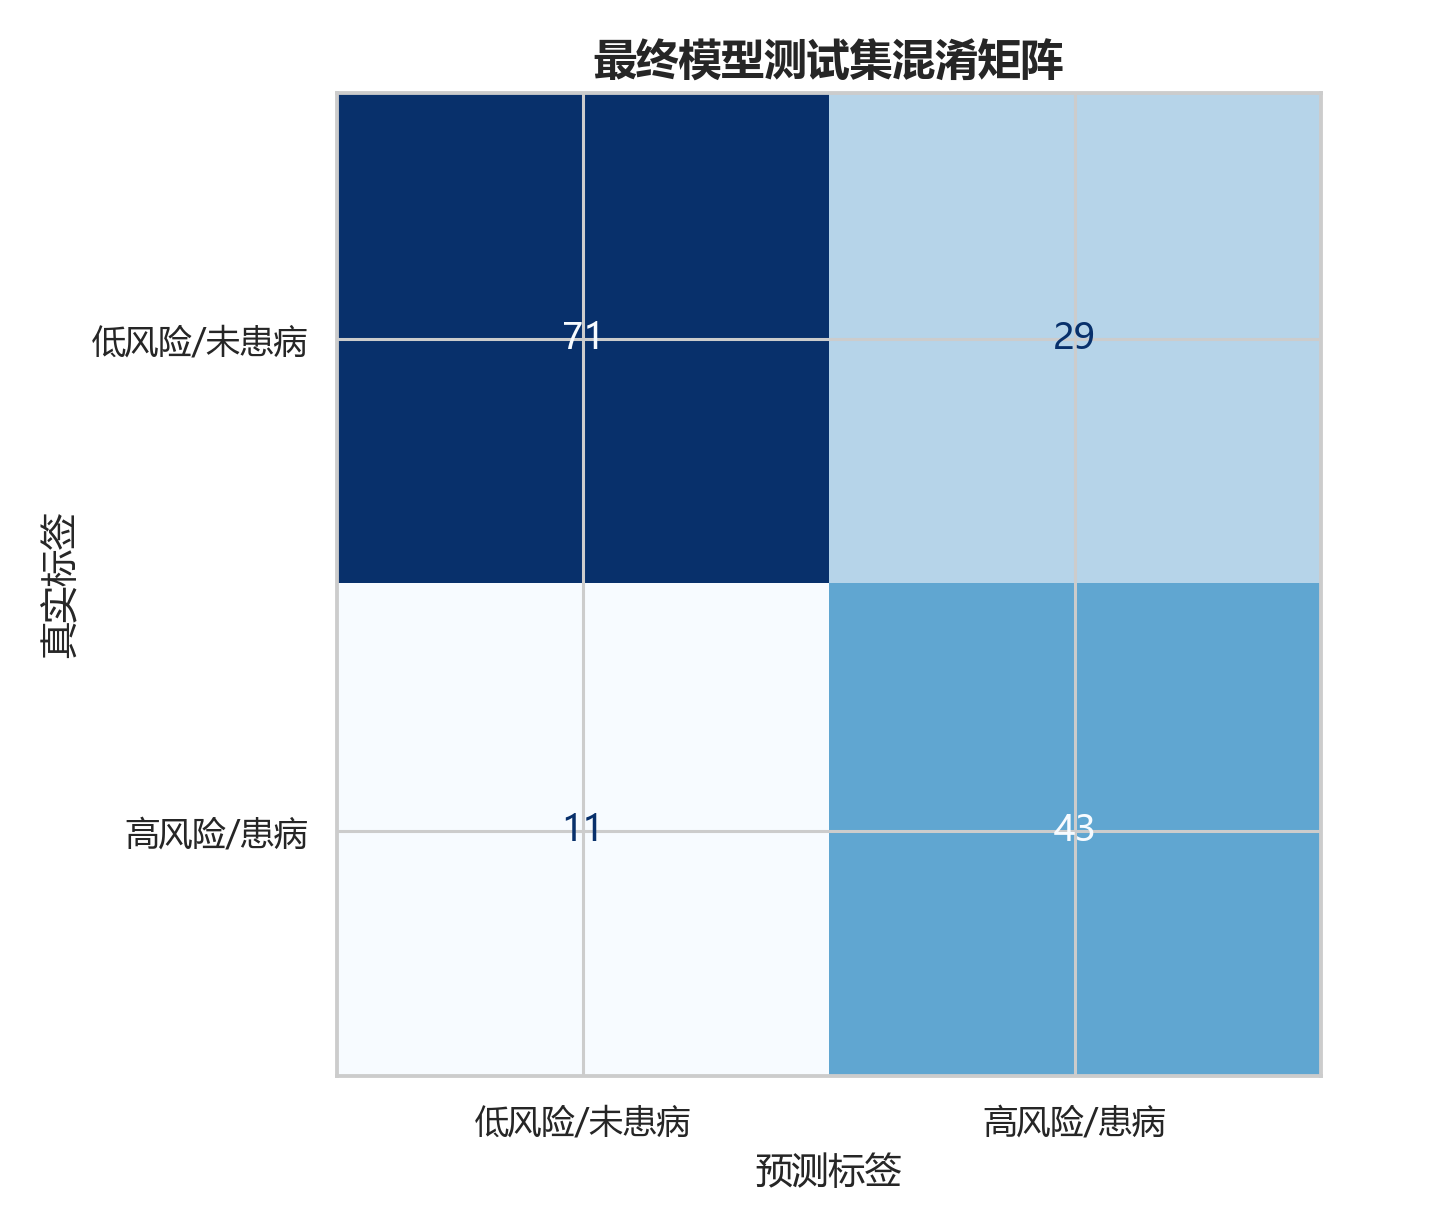
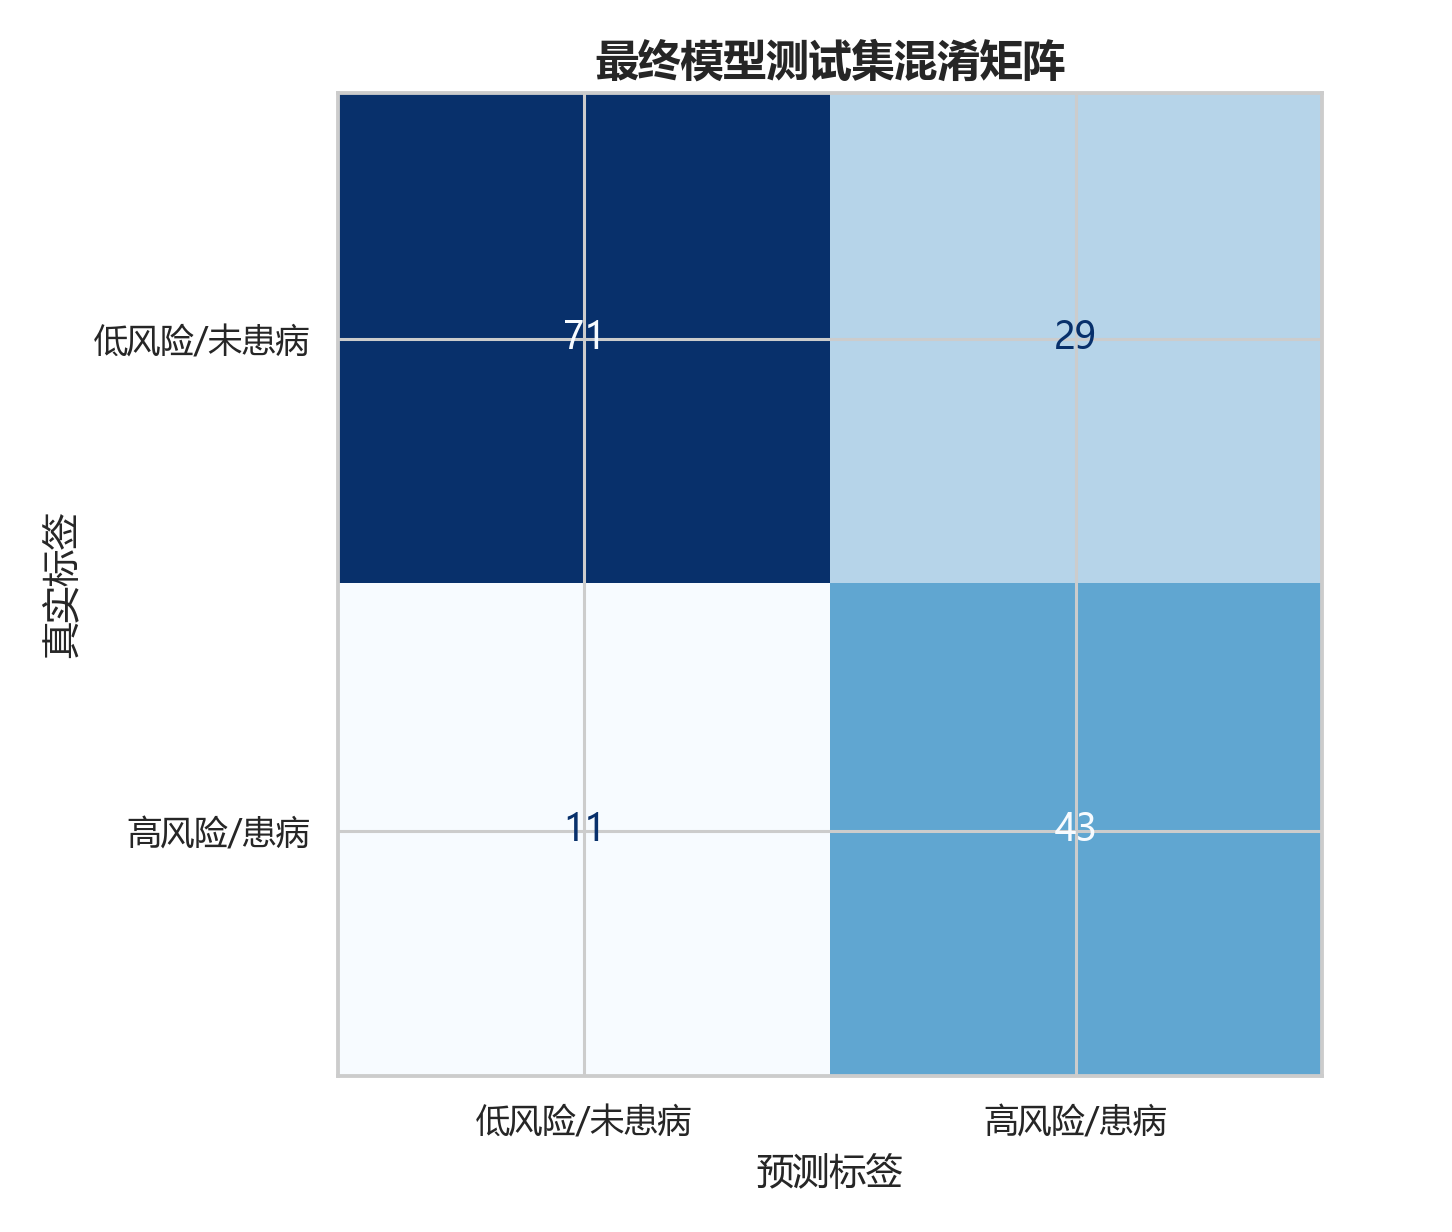
feat: 对接B模块结果并刷新最终评估

diff --git a/src/tune_model.py b/src/tune_model.py
@@ -9,6 +9,7 @@ from sklearn.model_selection import GridSearchCV, StratifiedKFold
 
 from evaluation_utils import (
     BASE_DIR,
+    B_MODEL_COMPARISON_RESULT_PATH,
     BEST_MODEL_PATH,
     BEST_PARAMS_PATH,
     DEFAULT_CLASSIFICATION_THRESHOLD,
@@ -27,7 +28,7 @@ from evaluation_utils import (
 )
 
 
-DEFAULT_TUNING_MODELS = ["logistic_regression", "random_forest", "svm", "knn"]
+DEFAULT_TUNING_MODELS = ["svm", "random_forest", "logistic_regression", "knn"]
 TOP_MODELS_FROM_B = 2
 SCORING = "roc_auc"
 CV_SPLITS = 5
@@ -35,12 +36,20 @@ MIN_VALIDATION_RECALL = 0.70
 MAX_F1_GENERALIZATION_GAP = 0.12
 
 
+def _find_b_result_path() -> tuple[Any | None, str | None]:
+    for path in [B_MODEL_COMPARISON_RESULT_PATH, MODEL_RESULTS_PATH]:
+        if path.exists():
+            return path, path.name
+    return None, None
+
+
 def _select_models_from_b_results(candidates: dict[str, dict[str, Any]]) -> list[str]:
-    if not MODEL_RESULTS_PATH.exists():
+    result_path, result_name = _find_b_result_path()
+    if result_path is None:
         return []
 
     try:
-        result_df = pd.read_csv(MODEL_RESULTS_PATH, encoding="utf-8-sig")
+        result_df = pd.read_csv(result_path, encoding="utf-8-sig")
     except Exception as exc:
         print(f"读取成员 B 结果失败，使用默认候选模型。原因: {exc}")
         return []
@@ -59,8 +68,14 @@ def _select_models_from_b_results(candidates: dict[str, dict[str, Any]]) -> list
         print("成员 B 结果表缺少可排序指标列，使用默认候选模型。")
         return []
 
-    if "dataset" in result_df.columns:
-        dataset_values = result_df["dataset"].astype(str).str.lower()
+    split_column = None
+    for candidate_column in ["split", "dataset"]:
+        if candidate_column in result_df.columns:
+            split_column = candidate_column
+            break
+
+    if split_column is not None:
+        dataset_values = result_df[split_column].astype(str).str.lower()
         validation_df = result_df[dataset_values.isin(["validation", "val"])]
         if not validation_df.empty:
             result_df = validation_df
@@ -78,7 +93,7 @@ def _select_models_from_b_results(candidates: dict[str, dict[str, Any]]) -> list
         .head(TOP_MODELS_FROM_B)
         .tolist()
     )
-    print(f"检测到成员 B 的 {MODEL_RESULTS_PATH.name}，将优先调参: {selected}")
+    print(f"检测到成员 B 的 {result_name}，将优先调参: {selected}")
     return selected
 
 
@@ -250,7 +265,8 @@ def main() -> None:
             f"prefer models with threshold train-validation f1 gap <= {MAX_F1_GENERALIZATION_GAP}"
         ),
         "f1_generalization_gap": round(float(best_row["f1_generalization_gap"]), 4),
-        "used_b_model_results": MODEL_RESULTS_PATH.exists(),
+        "used_b_model_results": _find_b_result_path()[0] is not None,
+        "b_model_results_file": _find_b_result_path()[1],
         "candidate_models": selected_model_keys,
         "best_cv_roc_auc": round(float(best_row["best_cv_roc_auc"]), 4),
         "best_params": json.loads(best_row["best_params"]),

diff --git a/src/evaluation_utils.py b/src/evaluation_utils.py
@@ -20,6 +20,7 @@ FIGURES_DIR = BASE_DIR / "figures"
 MODELS_DIR = BASE_DIR / "models"
 
 MODEL_RESULTS_PATH = BASE_DIR / "model_results.csv"
+B_MODEL_COMPARISON_RESULT_PATH = BASE_DIR / "model_comparison_result.csv"
 TUNING_RESULTS_PATH = BASE_DIR / "tuning_results.csv"
 BEST_PARAMS_PATH = BASE_DIR / "best_params.json"
 FINAL_METRICS_PATH = BASE_DIR / "final_metrics.csv"
